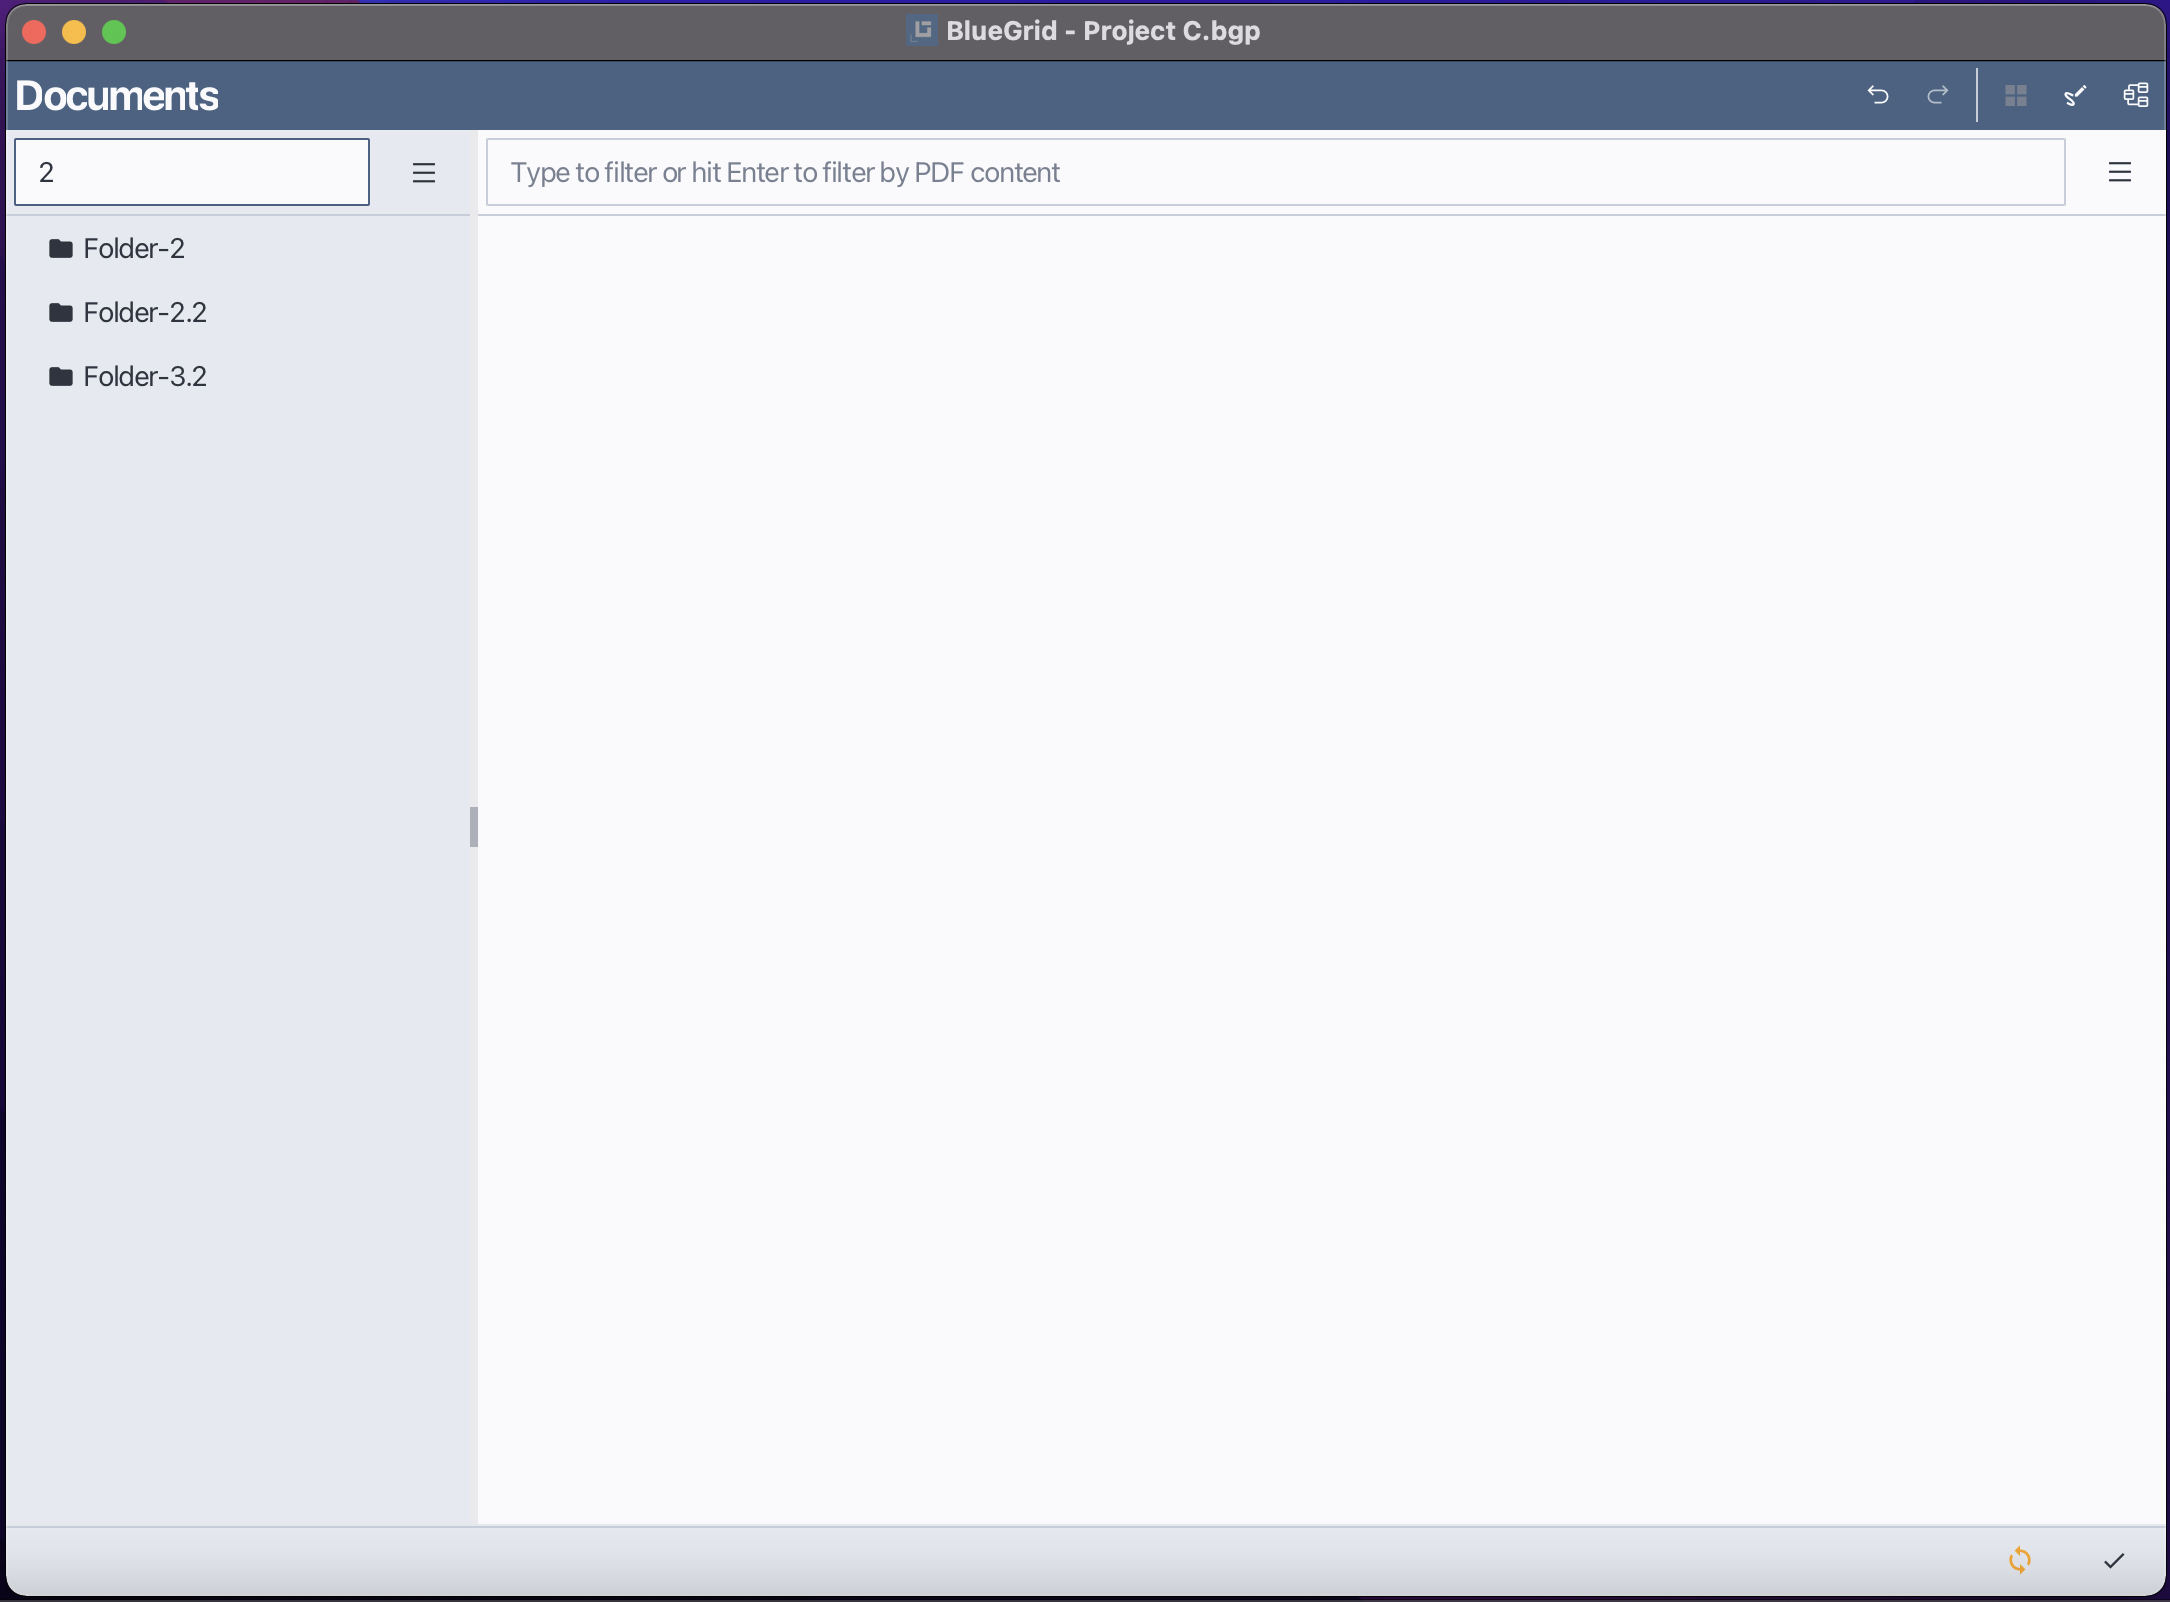
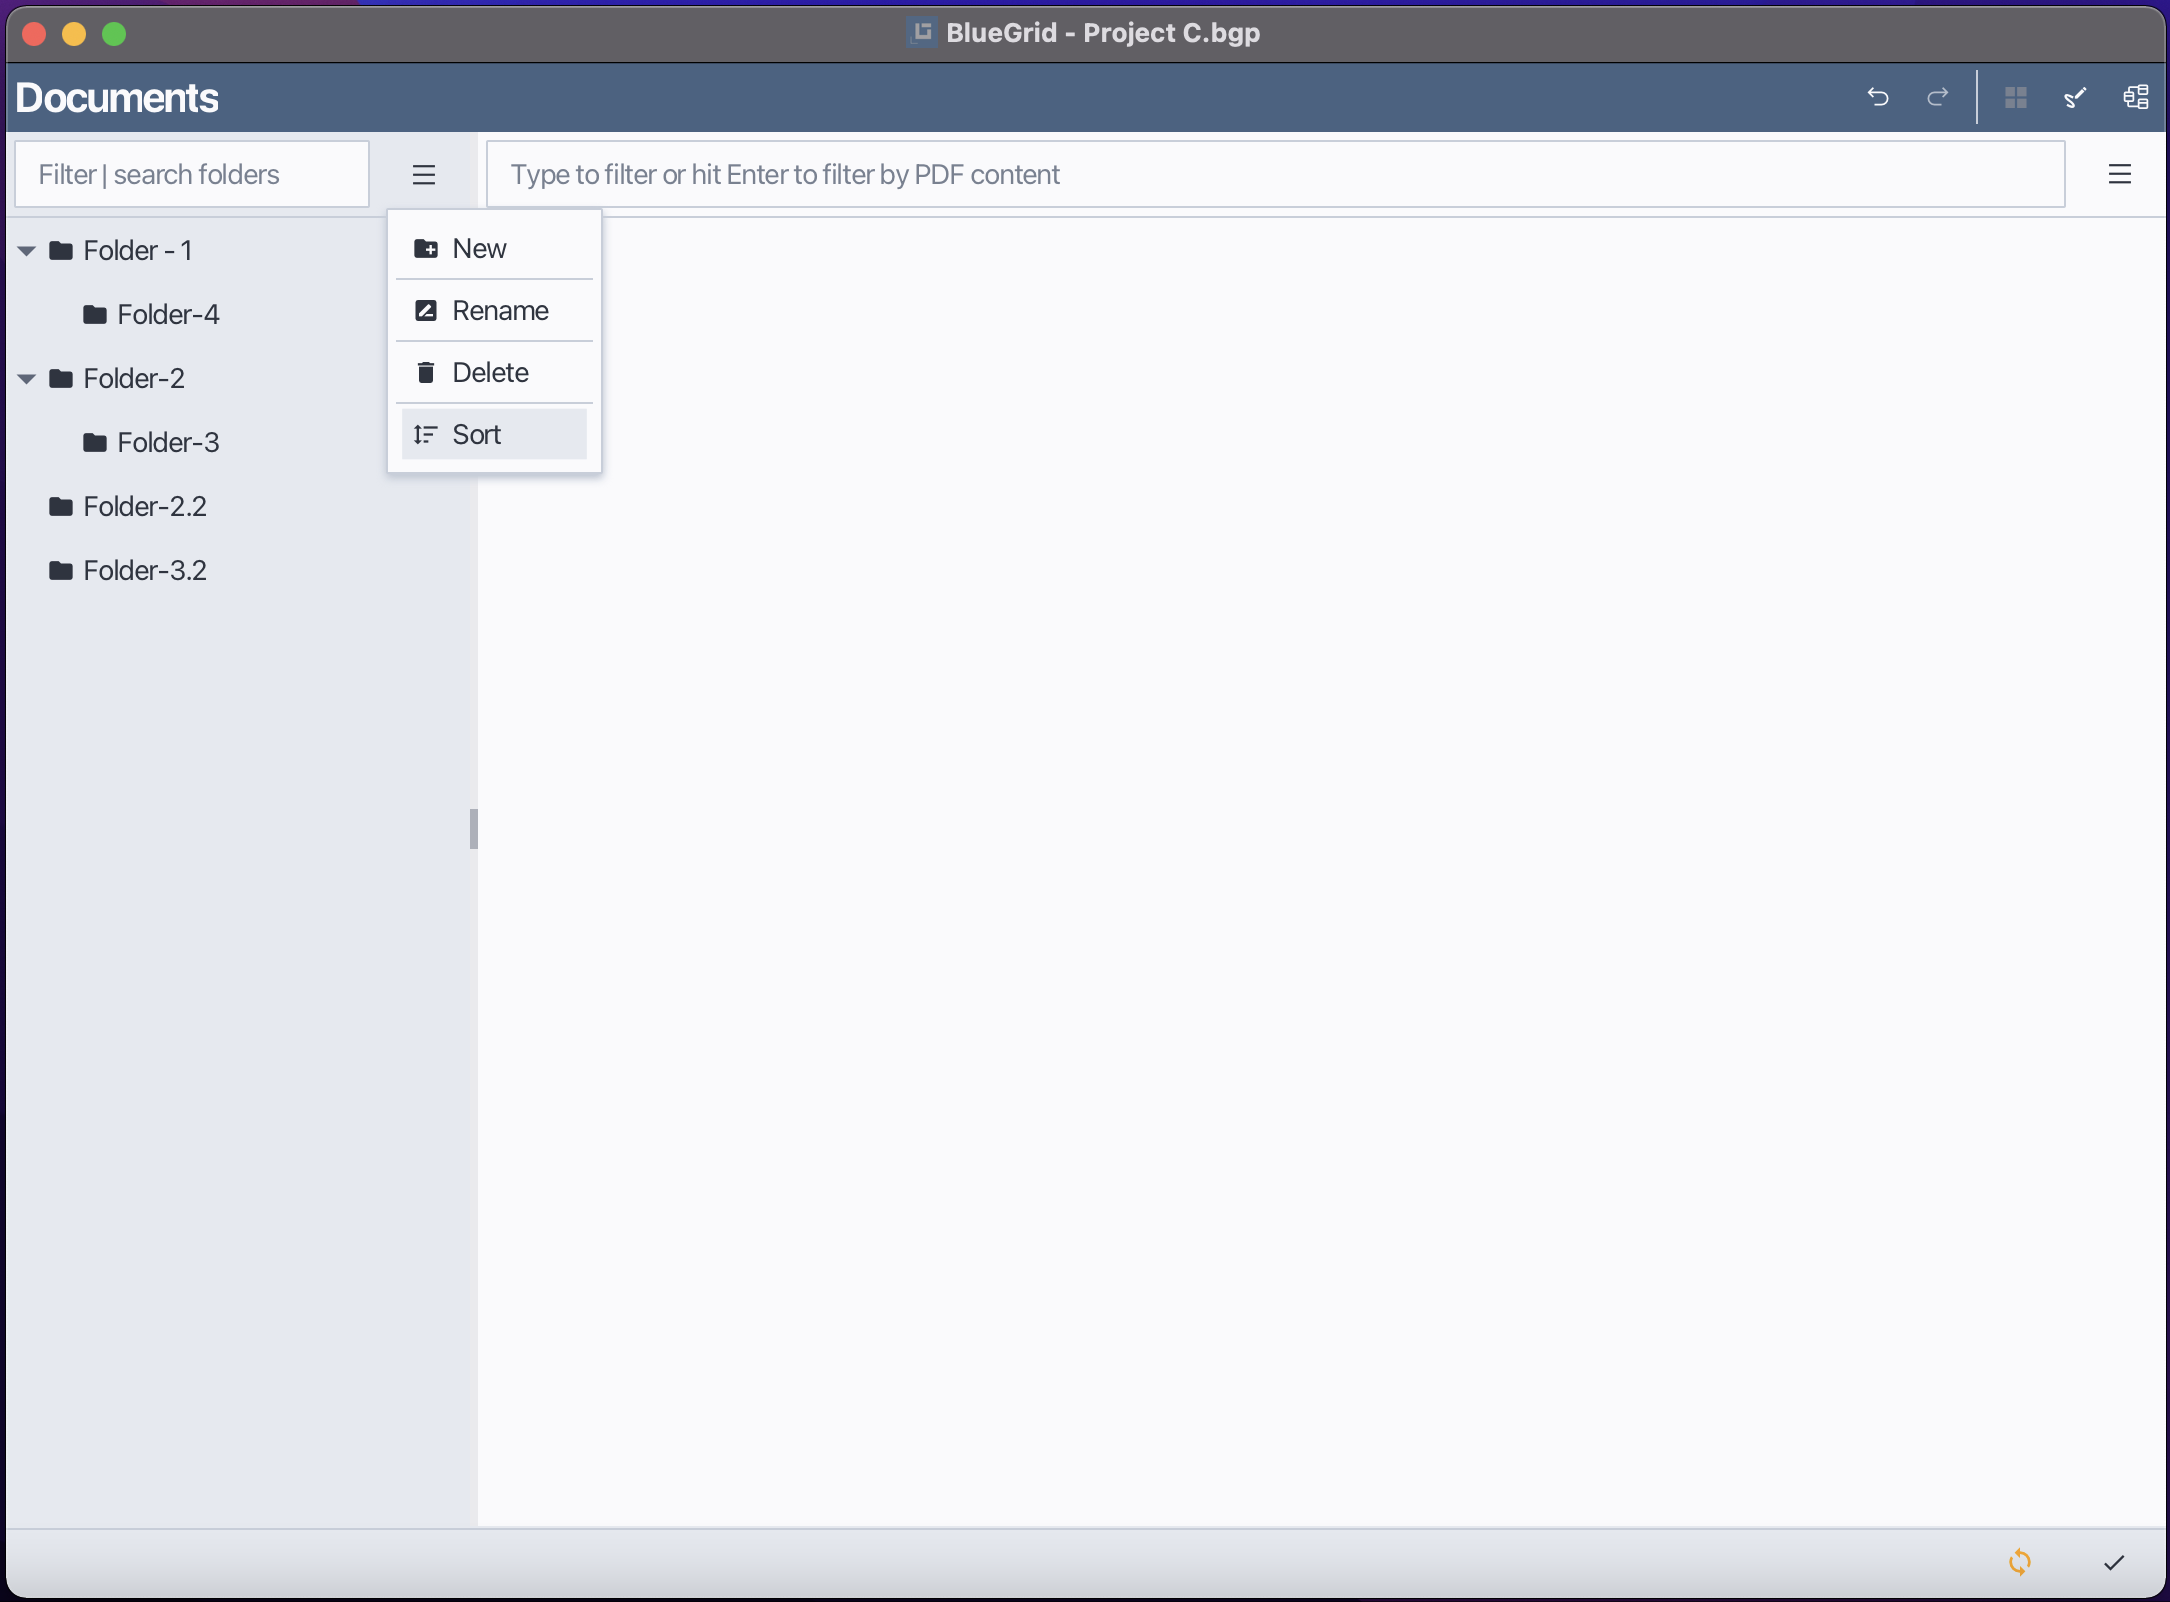
Update manual

diff --git a/README.md b/README.md
@@ -173,31 +173,36 @@ In BlueGrid, every folder may contain sub-folders or Pages. To move a folder to 
 #### 2.1.5 Sorting Folders
 You can sort folders using either the Folder Menu or the Context Menu.
 1. Open the Folder menu.
-2. Select Sort. Sort again to reverse sorting
+2. Select Sort. 
+<p>Sort again to reverse sorting</p>
 <p><strong>Sort folders</strong></p>
 <img src="images/sort-folders.png" alt="Sort folders" title="Sort folders" style="width:auto; height:auto; max-width:70%;">
 
 #### 2.1.6 Filter Folders
-You can filter folders using either the Folder Menu or the Context Menu.
-1. Open the Folder menu.
-2. Select Filter.
-3. In the Filter dialog, enter the criteria to filter folders.
-4. Click OK to apply the filter.
+In BlueGrid, you can filter folders by typing the filtering text into folder filter field.
+<img src="images/filter-folders.png" alt="Filter folders" title="Filter folders" style="width:auto; height:auto; max-width:70%;">
+
 
 ##### Notes
-Select Sort. Sort again to reverse sorting
+Clear the filter text to show all folders again.
 
 ### 2.2 Pages:
 #### 2.2.1 Open a page
 1. Select the page you want to open.
 2. Double-click the page or right-click to open context menu and choose Open.
+<p><strong>Open a page</strong></p>
+<img src="images/open-page.png" alt="Open a page" title="Open a page" style="width:auto; height:auto; max-width:70%;">
+##### Notes
+By default, BlueGrid opens the latest version of a page. If you want to open a specific version, please refer to section 2.2.3 Open Version.
 
 #### 2.2.2 Open with
 BlueGrid allows users to open a page with different applications.
 1. Select the page you want to open with a different application.
-2. Right-click to open context menu and choose Open With.
+2. Right-click to open context menu, hover mouse to Open With. If the application you want to use is listed, click on it to open the page with that application. Otherwise, click Find to navigate the application...
 3. In the Open With dialog, select the desired application from the list or browse to find a specific application.
 4. Click OK to open the page with the selected application.
+##### Notes
+The applications users used to open pages will be saved in the Open With list for future use.
 
 #### 2.2.3 Open version
 1. Select the page you want to open a specific version of.
